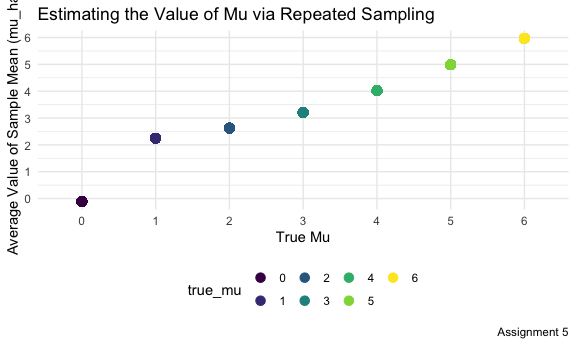
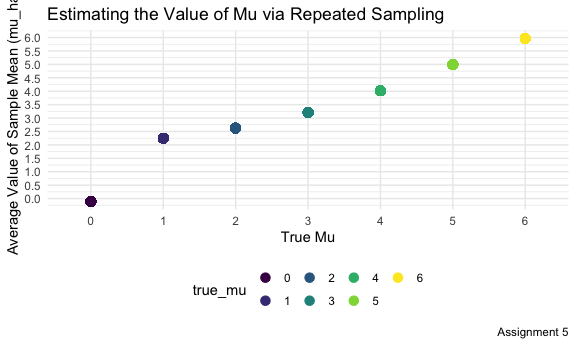
adjusting interpretation in last question, needs more thought

diff --git a/p8105_hw5_eh2928.md b/p8105_hw5_eh2928.md
@@ -234,8 +234,8 @@ sim_results %>%
   scale_y_continuous(breaks = seq(0, 1, 0.1)) +
   labs(
     title = "Simulating Repeated Sampling for Power Demonstration",
-    x = "Proportion of Simulations where Null Rejected",
-    y = "True Mu",
+    x = "True Mu",
+    y = "Proportion of Simulations where Null Rejected",
     caption = "Simulations Power Plot, Assignment 5")
 ```
 
@@ -278,7 +278,7 @@ sim_results %>%
   arrange(desc(estimate_mean)) %>% 
   ggplot(aes(x = true_mu, y = estimate_mean, color = true_mu, group = true_mu)) + 
   geom_point(alpha = 1, size = 3) +
-  scale_y_continuous(breaks = seq(0, 7, 1)) +
+  scale_y_continuous(breaks = seq(0, 7, .5)) +
   labs(
     title = "Estimating the Value of Mu via Repeated Sampling",
     x = "True Mu",
@@ -287,3 +287,12 @@ sim_results %>%
 ```
 
 <img src="p8105_hw5_eh2928_files/figure-gfm/plot 3-1.png" width="90%" />
+Using only samples in which the null was rejected, the average estimate
+of the sample mean is not approximately equal to the true value of mu,
+especially until mu (true population mean) is 4 and above. This is
+likely the case because for mu is 4 and above, a larger number of
+samples find evidence to reject the null hypothesis, and are used in the
+estimation process after filtering. When we simulate larger population
+means, the effect size and power are higher when the true population
+mean is high and the null hypothesis is that the mean is equal to 0
+(holding sample size and standard deviation constant).
